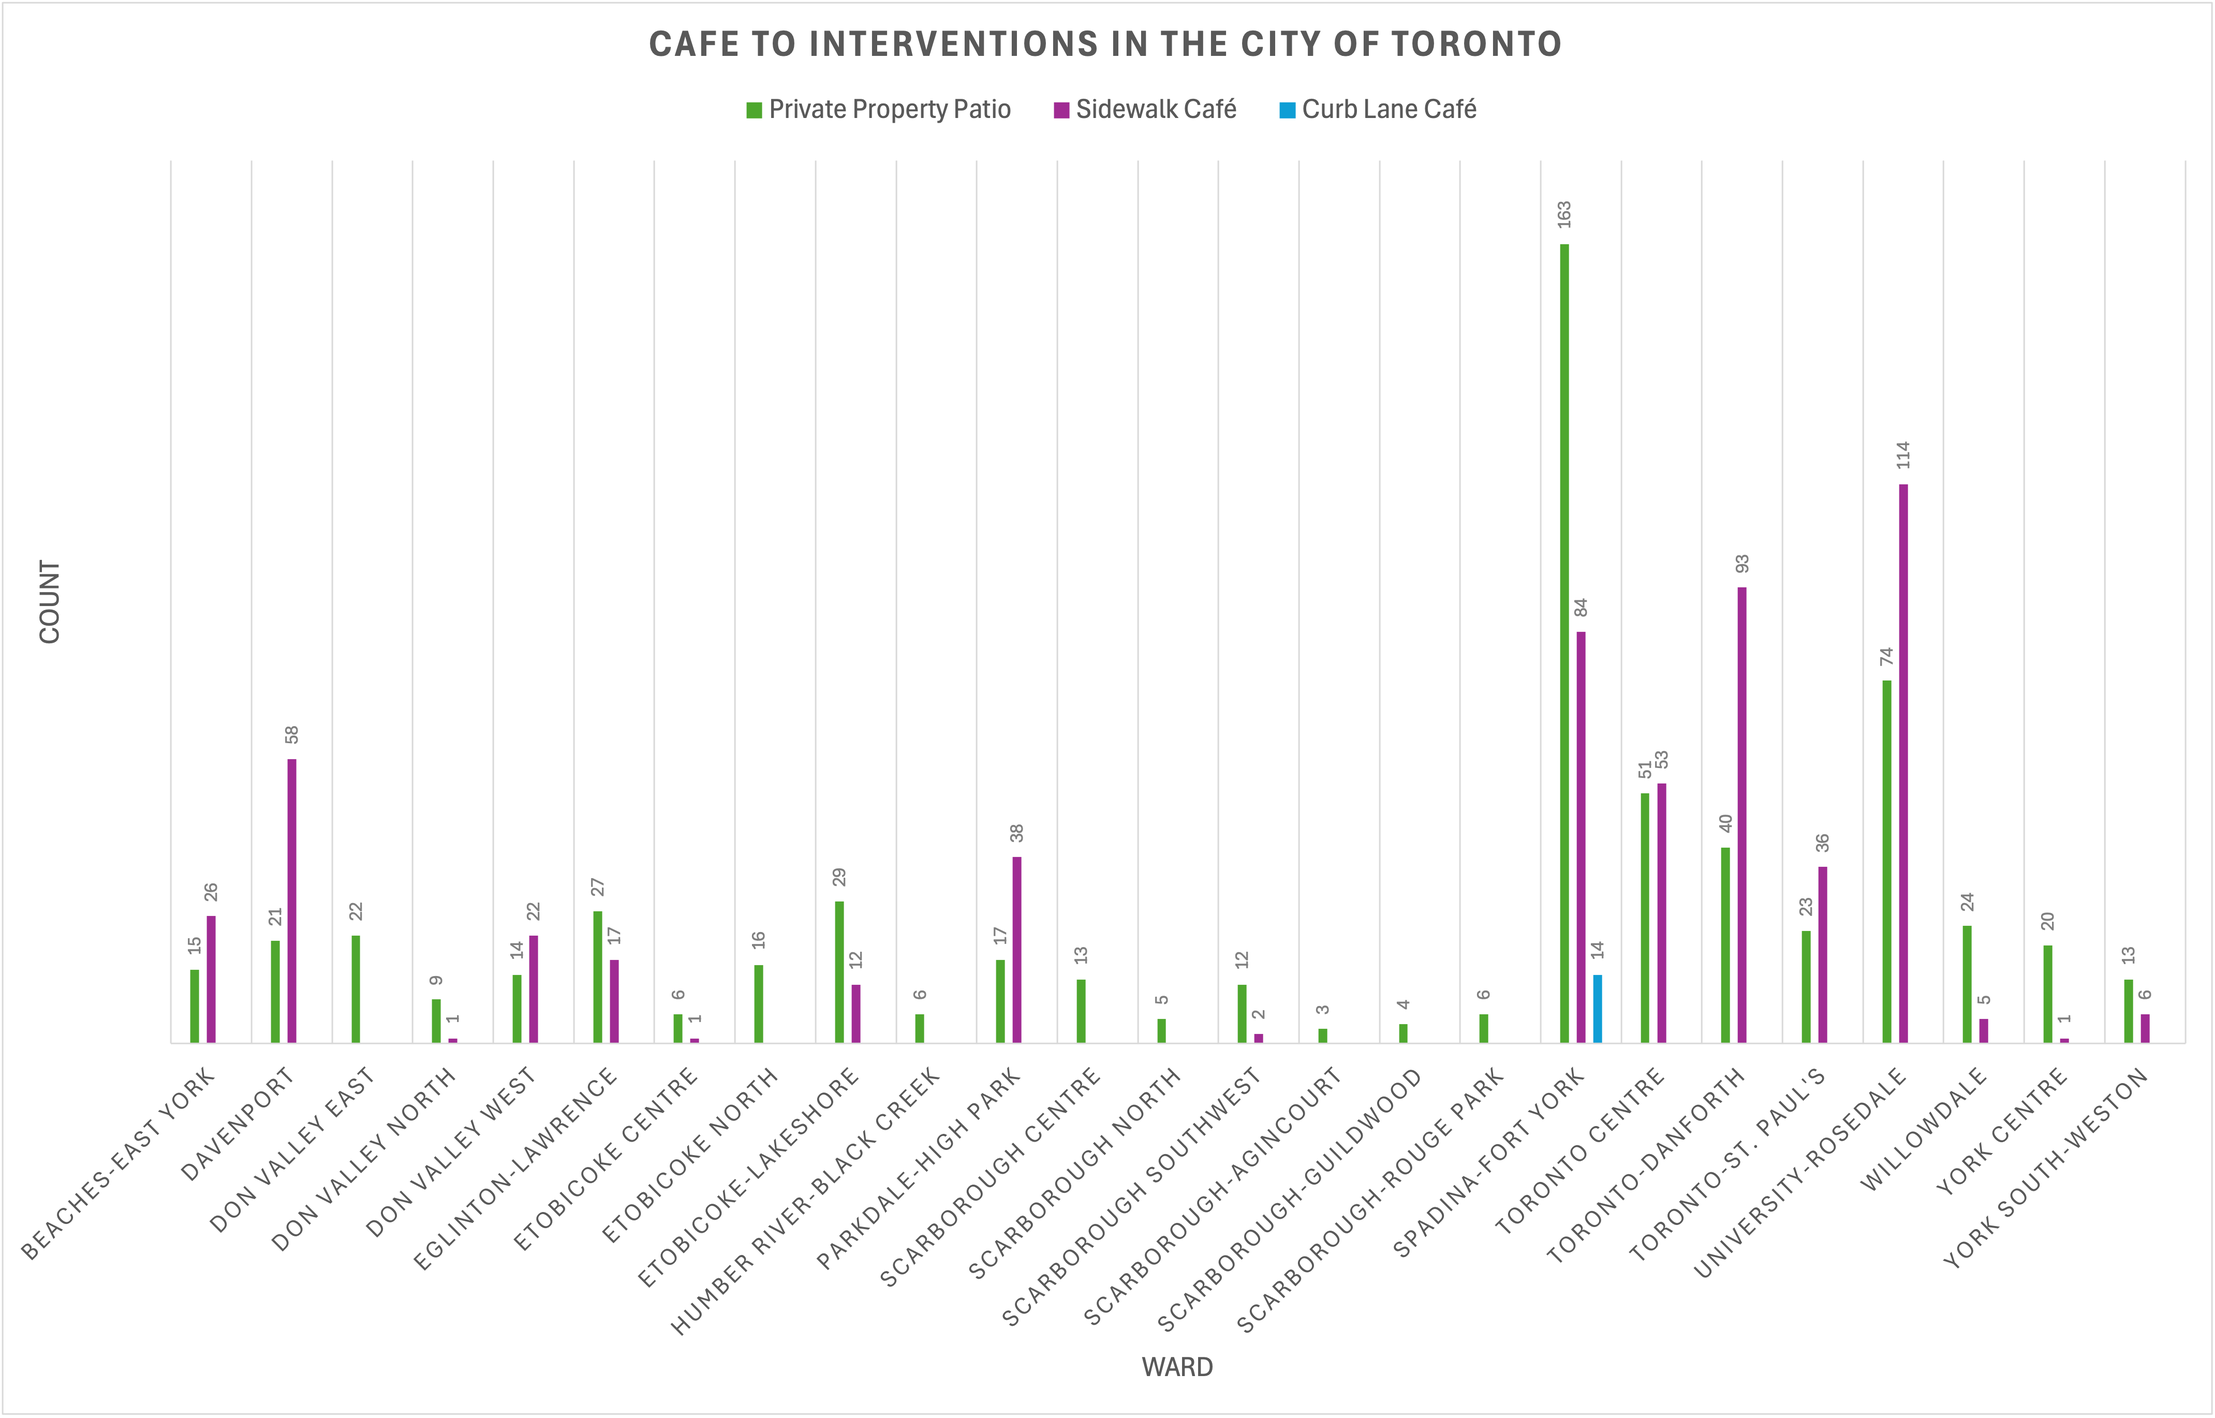
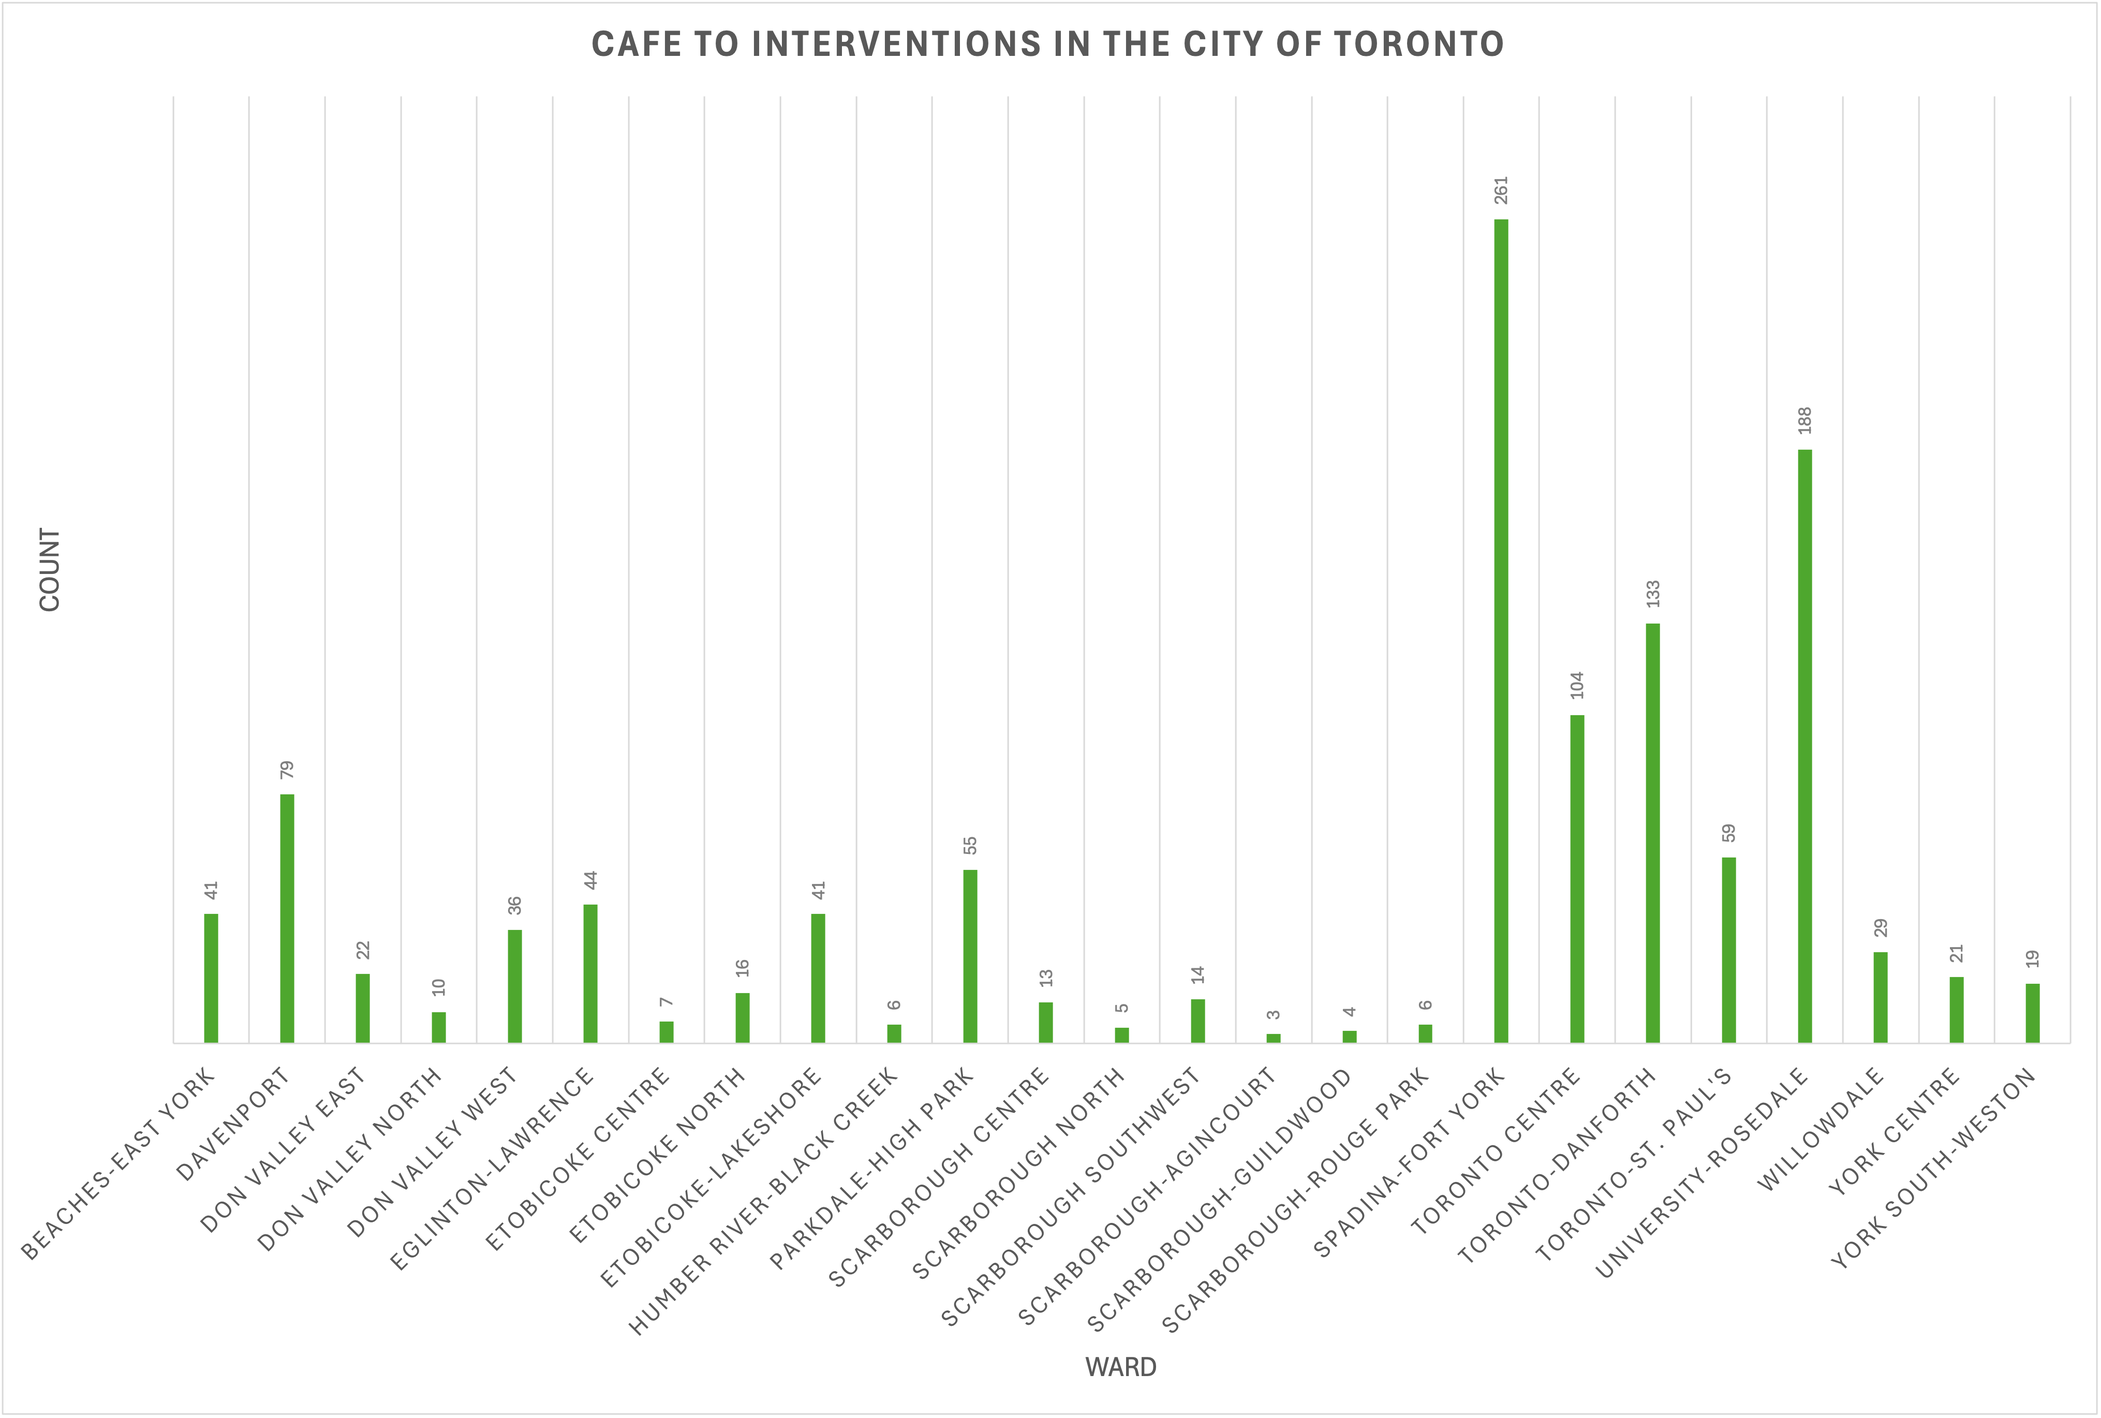
pretty much done assignment 3

diff --git a/02_activities/assignments/assignment-3/excel_visualization.md b/02_activities/assignments/assignment-3/excel_visualization.md
@@ -4,53 +4,47 @@
 
 ### CaféTO Interventions in the City of Toronto
 <img title="Number of Cafe TO Interventions in the City of Toronto" src="excel.png"> 
-    
-    > What software did you use to create your data visualization?
-    I used Microsoft Excel to create the bar chart. Excel’s built-in pivot table and chart tools made it easy to summarize and visualize categorical data like café counts per ward.
 
-    > Who is your intended audience? 
-    The intended audience includes Toronto city planners, municipal policymakers, BIAs (Business Improvement Areas), and engaged residents who are interested in the distribution of public space for outdoor dining across the city.
+> What software did you use to create your data visualization?
+I used Microsoft Excel to create the bar chart. Excel’s built-in pivot table and chart tools made it easy to summarize and visualize café intervention counts per ward.
 
-    > What information or message are you trying to convey with your visualization? 
-    The main message is that the number of CaféTO installations varies significantly across wards. This may reflect differences in commercial density, municipal support, or infrastructure. The chart helps highlight where the program is most active and where it might be underutilized.
+> Who is your intended audience? 
+The intended audience includes Toronto city planners, municipal policymakers, BIAs (Business Improvement Areas), and engaged residents who are interested in the distribution of public space for outdoor dining across the city.
 
-    > What aspects of design did you consider when making your visualization? How did you apply them? With what elements of your plots? 
-    A bar chart was chosen because it clearly compares quantities across categories (in this case, wards). I also added axis labels and a chart title for clarity.
-    I considered clarity, order, and comparability in the chart’s design:
+> What information or message are you trying to convey with your visualization? 
+The main message is that the number of CaféTO installations varies significantly across wards. This may reflect differences in commercial density, municipal support, or infrastructure. The chart helps highlight where the program is most active and where it might be underutilized.
 
-        - I labeled each bar with the corresponding count.
-        - I added a clear chart title and axis labels.
-        - I used a simple color palette to maintain readability and avoid visual clutter.
-    
-    > How did you ensure that your data visualizations are reproducible? If the tool you used to make your data visualization is not reproducible, how will this impact your data visualization? 
-    Since Excel is not a fully scriptable tool, the visualization is only semi-reproducible. I kept a copy of the raw data and recorded the steps (e.g., filtering, pivot table creation, chart formatting). However, because Excel relies on manual input, exact replication may be difficult without step-by-step documentation. This limits scalability and reproducibility, especially for larger or dynamic datasets.
+> What aspects of design did you consider when making your visualization? How did you apply them? With what elements of your plots? 
+A bar chart was chosen because it clearly compares quantities across categories (in this case, wards). I also added axis labels and a chart title for clarity.
+I considered clarity, order, and comparability in the chart’s design:
+- I labeled each bar with the corresponding count.
+- I added a clear chart title and axis labels.
+- I used a simple color palette to maintain readability and avoid visual clutter.
 
-    > How did you ensure that your data visualization is accessible?  
-    To improve accessibility, I:
+> How did you ensure that your data visualizations are reproducible? If the tool you used to make your data visualization is not reproducible, how will this impact your data visualization? 
+Since Excel is not a fully scriptable tool, the visualization is not reproducible. While I did keep a copy of the raw data and the pivot table I used to group the data to make the bar graph, it requires the invidual reproducing the data to have access to Excel. Additionally, Excel relies on manual input, so exact replication may be difficult without step-by-step documentation. Overall, this will limit scalability and reproducibility, especially for larger or dynamic datasets.
 
-    - Used high-contrast colors and a simple font.
-    - Included text labels for each bar to reduce reliance on interpreting the x-axis scale.
-    - Avoided unnecessary visual effects like 3D charting, which can distort perception. 
-    
+> How did you ensure that your data visualization is accessible?  
+To improve accessibility, I:
+- Used high-contrast colors and a simple font.
+- Included text labels for each bar to reduce reliance on interpreting the x-axis scale.
+- Avoided unnecessary visual effects like 3D charting, which can distort perception. 
 
-    > Who are the individuals and communities who might be impacted by your visualization?  
-    The visualization may impact:
+> Who are the individuals and communities who might be impacted by your visualization?  
+- Local business owners, who might use this information to advocate for more support in their ward.
+- City officials and planners, who could use the chart to evaluate program equity and reach.
+- Residents, particularly in underrepresented wards, who may question why their neighborhoods lack CaféTO access.
 
-        - Local business owners, who might use this information to advocate for more support in their ward.
-        - City officials and planners, who could use the chart to evaluate program equity and reach.
-        - Residents, particularly in underrepresented wards, who may question why their neighborhoods lack CaféTO access.
+> How did you choose which features of your chosen dataset to include or exclude from your visualization? 
+I focused only on ward-level counts, excluding details like exact addresses, BIA membership, or café intervention type. This decision was made to keep the visualization clear and comparative across wards. Including more features may have cluttered the chart or required multiple layers of information, better suited to a different format like a map.
 
-    > How did you choose which features of your chosen dataset to include or exclude from your visualization? 
-    I focused only on ward-level counts, excluding details like exact addresses, BIA membership, or café type. This decision was made to keep the visualization clear and comparative across wards. Including more features may have cluttered the chart or required multiple layers of information, better suited to a different format like a map.
-
-    > What ‘underwater labour’ contributed to your final data visualization product?
-    Some key “invisible” work included:
-
-    - Collecting and entering the data for the number of and type of CaféTO intervention across Toronto.
-    - Exploring and understanding the dataset, including decoding terminology and checking for missing values.
-    - Filtering incomplete entries, such as rows missing ward data.
-    - Manually creating and formatting pivot tables and bar charts.
-    - Iterating design choices (e.g., reordering bars, testing label formats) to improve readability.
-    This behind-the-scenes effort was essential to produce a clean, communicative chart.
+> What ‘underwater labour’ contributed to your final data visualization product?
+'Underwater labour' for this visualization includes:
+- Collecting and entering the data for the number of and type of CaféTO intervention across Toronto.
+- Exploring and understanding the dataset, including decoding terminology and checking for missing values.
+- Filtering incomplete entries, such as rows missing ward data.
+- Manually creating and formatting pivot tables and bar charts.
+- Iterating design choices (e.g., reordering bars, testing label formats) to improve readability.
+This behind-the-scenes effort was essential to produce a clean, communicative chart.
 
  

diff --git a/02_activities/assignments/assignment-3/python_visualization.md b/02_activities/assignments/assignment-3/python_visualization.md
@@ -6,40 +6,40 @@
 
 <img title="Number of Cafe TO Interventions in the City of Toronto" src="python.png"> 
 
-    > What software did you use to create your data visualization?
-    I used Python with the pandas, Seaborn, and matplotlib libraries. Pandas handled data wrangling, while Seaborn and matplotlib were used to create and customize the grouped bar chart.
+> What software did you use to create your data visualization?
+I used Python with the pandas, Seaborn, and matplotlib libraries. Pandas handled data wrangling, while Seaborn and matplotlib were used to create and customize the grouped bar chart.
 
-    > Who is your intended audience? 
-    My intended audience includes Toronto city planners, policy makers, local business associations (BIAs), and community members who want to understand how CaféTO interventions are distributed across the city’s wards.
+> Who is your intended audience? 
+My intended audience includes Toronto city planners, policy makers, local business associations (BIAs), and community members who want to understand how CaféTO interventions are distributed across the city’s wards.
 
-    > What information or message are you trying to convey with your visualization? 
-    The visualization shows how different types of CaféTO interventions (e.g., Curb Lane, Parklet) are distributed across Toronto’s wards. It highlights which wards have a high concentration of outdoor dining infrastructure and reveals disparities in participation or access.
+> What information or message are you trying to convey with your visualization? 
+The visualization shows how different types of CaféTO interventions (e.g., Curb Lane, Sidewalk Cafés) are distributed across Toronto’s wards. It highlights which wards have a high concentration of outdoor dining infrastructure and reveals disparities in participation or access.
 
-    > What aspects of design did you consider when making your visualization? How did you apply them? With what elements of your plots? 
-    I focused on readability, clarity, and comparability:
-
-        - Used grouped bars to enable comparison between intervention types within each ward.
-        - Chose a distinctive color palette (Seaborn’s Set2) for accessibility and contrast.
-        - Added value labels on each bar to show exact counts and reduce reliance on the y-axis.
-        - Labeled axes clearly and rotated x-axis labels for better readability.
-        
-    > How did you ensure that your data visualizations are reproducible? If the tool you used to make your data visualization is not reproducible, how will this impact your data visualization? 
-    The visualization is fully reproducible through Python code. I used a script-based workflow where all steps—from reading the data to generating the plot—are encoded in a Python file. This means anyone with the dataset and code can recreate the visualization exactly, ensuring transparency and replicability.
-
-    > How did you ensure that your data visualization is accessible?  
-    I used a high-contrast, colorblind-friendly palette and included text labels on each bar to improve accessibility for those with visual impairments or difficulty reading axes. The font sizes were also adjusted for legibility. For broader accessibility (e.g., screen readers), the plot could be supplemented with alternative text or exported alongside a descriptive summary.
-
-    > Who are the individuals and communities who might be impacted by your visualization?  
-    - Local businesses and BIAs might use this to advocate for additional support in underrepresented areas.
-    - Municipal decision-makers may use the information to identify gaps in program coverage.
-    - Residents and equity advocates may raise questions about which neighborhoods are underserved and why.
+> What aspects of design did you consider when making your visualization? How did you apply them? With what elements of your plots? 
+I focused on readability, clarity, and comparability:
+- Used grouped bars to enable comparison between intervention types within each ward.
+- Chose a distinctive color palette (Seaborn’s Set2) for accessibility and contrast.
+- Added value labels on each bar to show exact counts and reduce reliance on the y-axis.
+- Labeled axes clearly and rotated x-axis labels for better readability.
     
-    > How did you choose which features of your chosen dataset to include or exclude from your visualization? 
-    I included only the ward name and intervention type, which are the most relevant variables for showing geographic and programmatic variation. I excluded individual business names, addresses, and geolocation data to keep the plot focused, clean, and interpretable at the ward level.
+> How did you ensure that your data visualizations are reproducible? If the tool you used to make your data visualization is not reproducible, how will this impact your data visualization? 
+The visualization is fully reproducible through Python code. I used a script-based workflow where all steps—from reading the data to generating the plot—are encoded in a Python file. This means anyone with the dataset and code can recreate the visualization exactly, ensuring transparency and replicability.
 
-    > What ‘underwater labour’ contributed to your final data visualization product?
-    - Collecting and entering the data for the number of and type of CaféTO intervention across Toronto.
-    - Cleaning the data, including checking for missing values and standardizing column names.
-    - Grouping and aggregating the data properly for plotting.
-    - Debugging and adjusting layout issues (e.g., axis label overlap, font sizing).
-    - Formatting labels manually with bar_label() to ensure clarity.
+> How did you ensure that your data visualization is accessible?  
+I used a high-contrast, colorblind-friendly palette and included text labels on each bar to improve accessibility for those with visual impairments or difficulty reading axes. The font sizes were also adjusted for legibility. For broader accessibility (e.g., screen readers), the plot could be supplemented with alternative text or exported alongside a descriptive summary.
+
+> Who are the individuals and communities who might be impacted by your visualization?  
+- Local businesses and BIAs might use this to advocate for additional support in underrepresented areas.
+- Municipal decision-makers may use the information to identify gaps in program coverage.
+- Residents and equity advocates may raise questions about which neighborhoods are underserved and why.
+
+> How did you choose which features of your chosen dataset to include or exclude from your visualization? 
+I included only the ward name and intervention type, which are the most relevant variables for showing geographic and programmatic variation. I excluded individual business names, addresses, and geolocation data to keep the plot focused, clean, and interpretable at the ward level.
+
+> What ‘underwater labour’ contributed to your final data visualization product?
+'Underwater labour' for this visualization includes:
+- Collecting and entering the data for the number of and type of CaféTO intervention across Toronto.
+- Cleaning the data, including checking for missing values and standardizing column names.
+- Grouping and aggregating the data properly for plotting.
+- Debugging and adjusting layout issues (e.g., axis label overlap, font sizing).
+- Formatting labels manually with bar_label() to ensure clarity.
